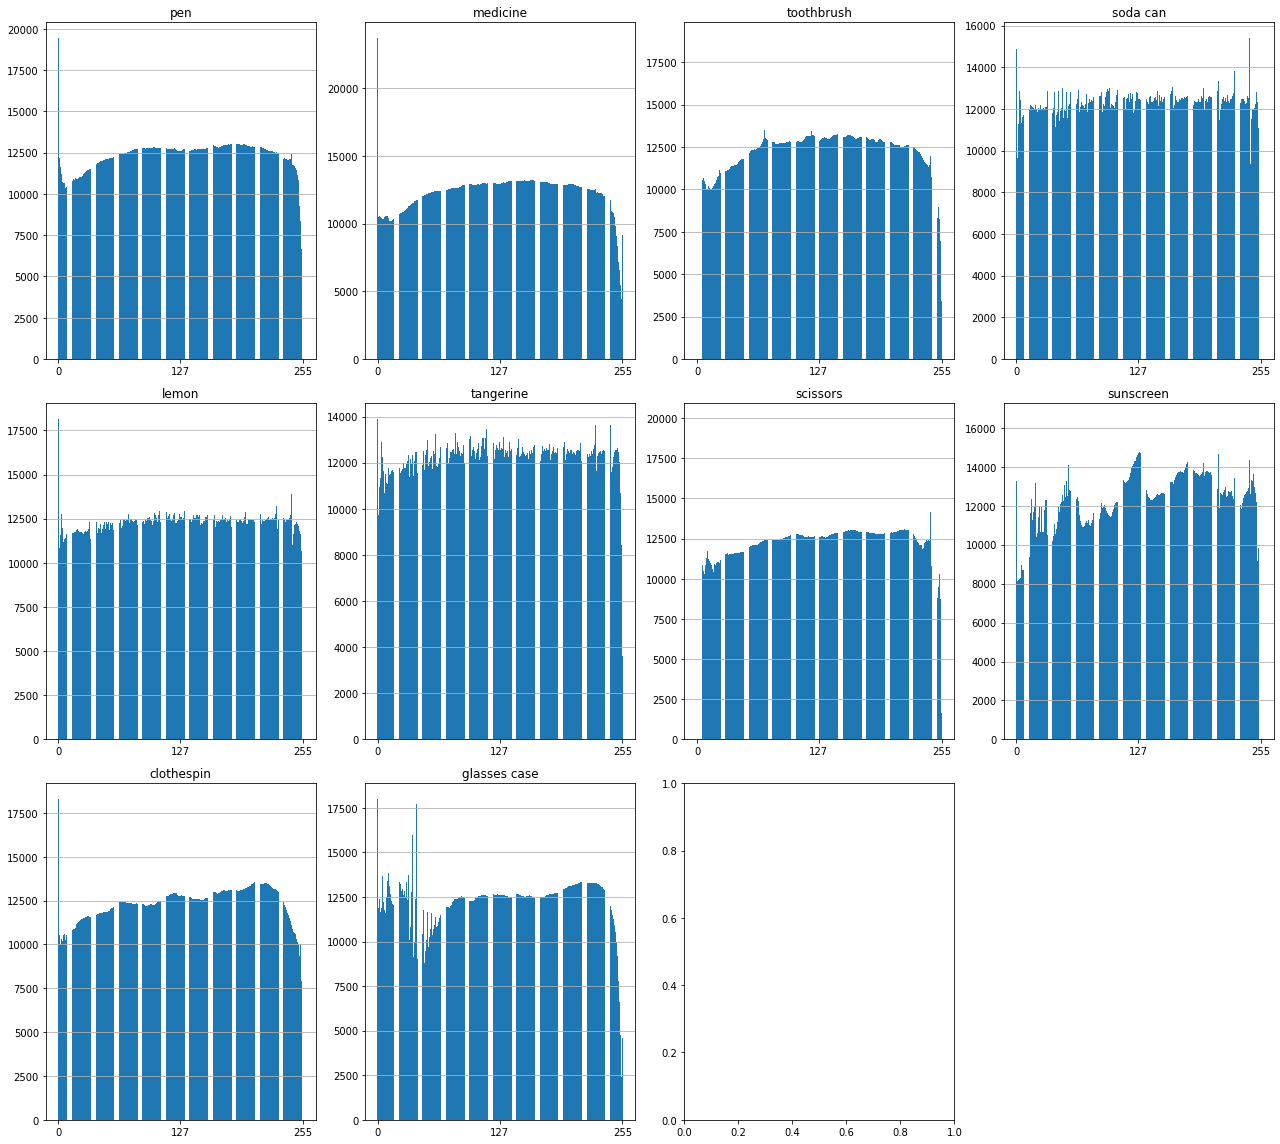
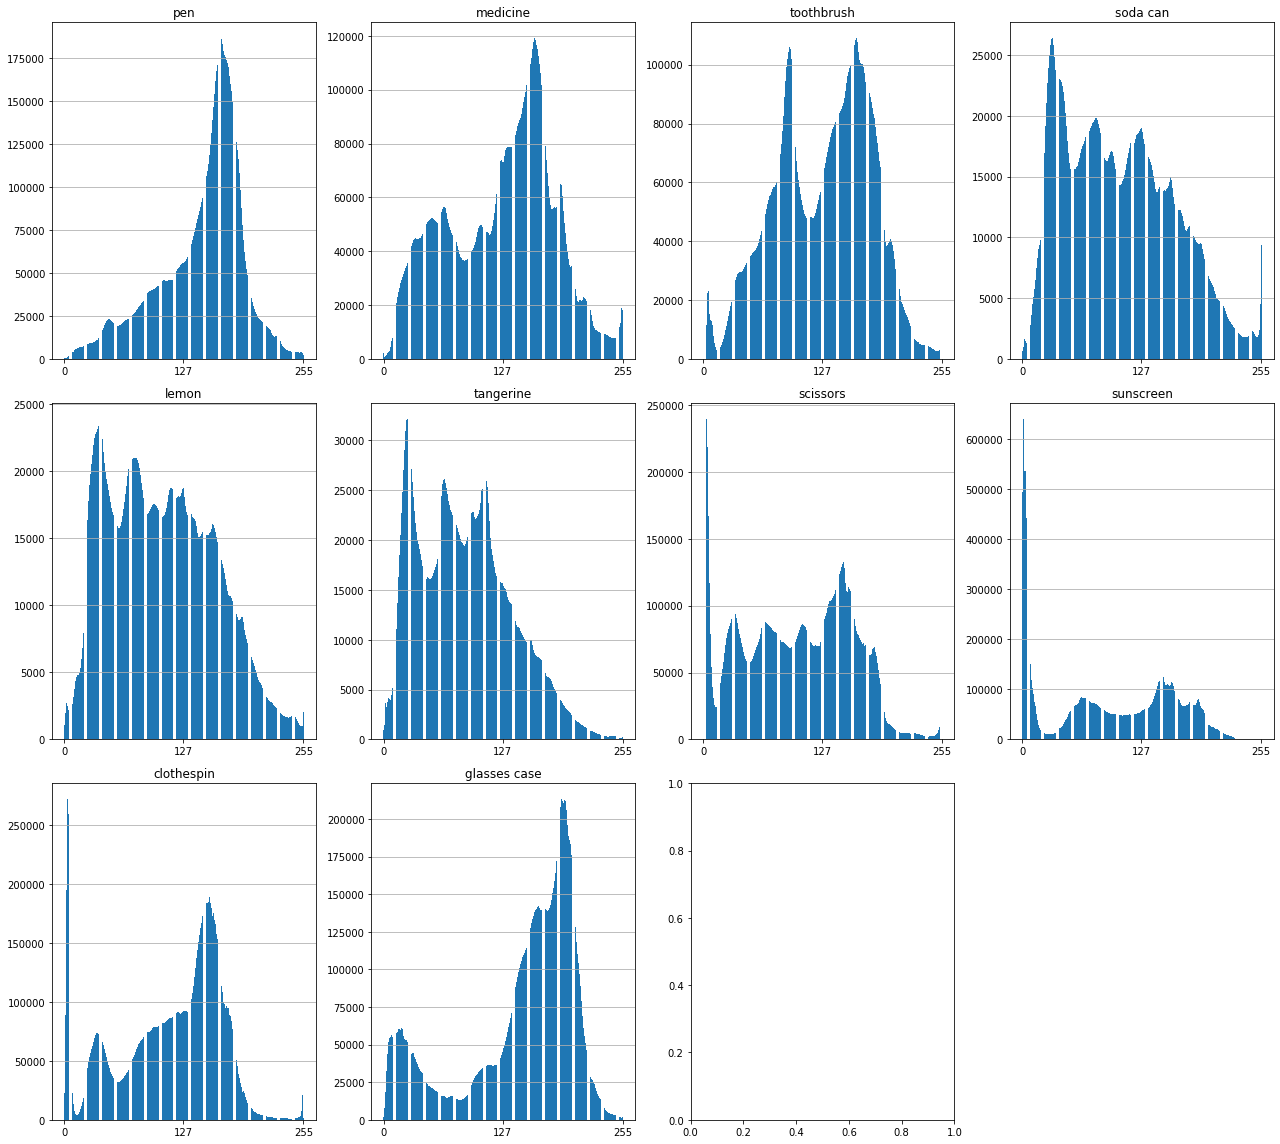
readme

diff --git a/docs/EP2.MD b/docs/EP2.MD
@@ -74,11 +74,19 @@ In the code, basicaly we go through each class of image in the me method [proces
 Mean prototype
 ![Images from original dataset](images/graydataset_prot.png)
 
-Mean histotogram for the original-gray dataset normalized
+
+Mean histotogram for the original-gray dataset
 ![](images/hist_meanorigray.png)
 
 variance of the histotogram for the original-gray dataset
 ![](images/hist_varorigray.png)
+
+
+Mean histotogram for the original-gray dataset **normalized**
+![](images/normhist_meanorigray.png)
+
+variance of the histotogram for the original-gray dataset **normalized**
+![](images/normhist_varorigray.png)
 
 **Images for augmented dataset**
 
